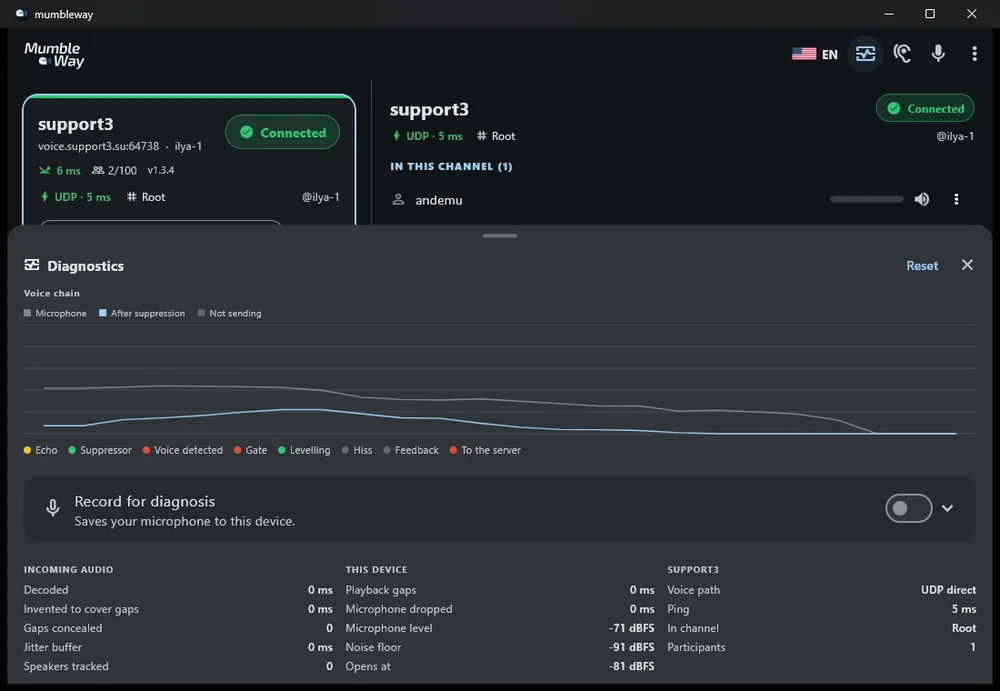
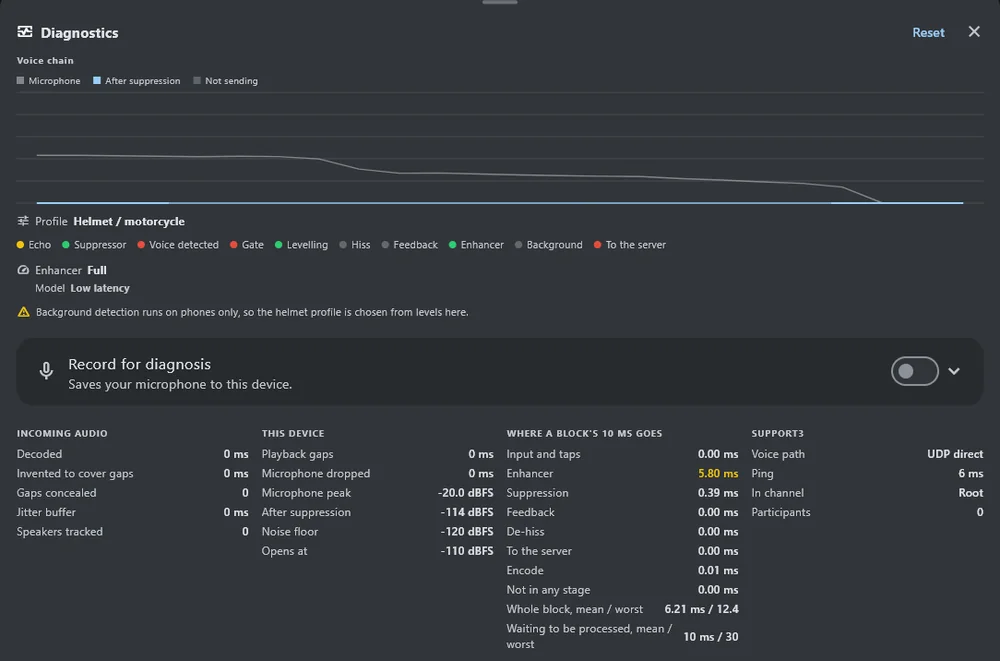
Re-shoot the desktop panel, now that it has something new to show
Taken from a local release build of this branch rather than waiting on the
publish, since Windows needs no store round trip. Four of the changes are
visible in the one picture:

- **`Profile  Helmet / motorcycle`.** The line that three separate reports said
  was missing. It was never missing -- the profile was set by hand and the line
  only ever appeared under Auto.
- **`CPU  8 [] 40 %`.** Two numbers where a 20-thread machine printed twenty,
  with the cores still drawn as pale lines behind the app's own.
- **`Enhancer  Full`, no warnings, plain toolbar icon.** This is the same
  machine that walked to *enhancer off* earlier today. Removing the single-core
  rule is why, and the block figures agree: 6.21 ms mean against a 12.4 ms
  worst, comfortably inside a 10 ms deadline.
- The four counter columns the caption has always claimed, including the block
  budget.

The gate marks are *not* in this shot, and the reason is the guard working
rather than the feature failing: the room was silent, so the floor sat at
-120 dBFS and the threshold at -110, both at or under the display floor, and a
mark outside the plot is not drawn. They need a shot with somebody talking.

diff --git a/docs/index.md b/docs/index.md
@@ -189,10 +189,11 @@ the channel and who is in it down the other.
   </figure>
   <figure>
     <img src="{{ '/assets/img/shots/diagnostics-desktop.webp' | relative_url }}"
-         alt="The diagnostics panel on Windows: the analyser and stage lights
-         above three columns of counters for incoming audio, this device and
-         the server."
-         width="1000" height="691" loading="lazy" decoding="async">
+         alt="The diagnostics panel on Windows: the analyser, the profile in
+         force, the stage lights and the enhancer's rung, above four columns of
+         counters for incoming audio, this device, where a block's ten
+         milliseconds go, and the server."
+         width="1000" height="661" loading="lazy" decoding="async">
     <figcaption>The diagnostics panel, where a wide window shows every counter
   at once instead of stacking them.</figcaption>
   </figure>
